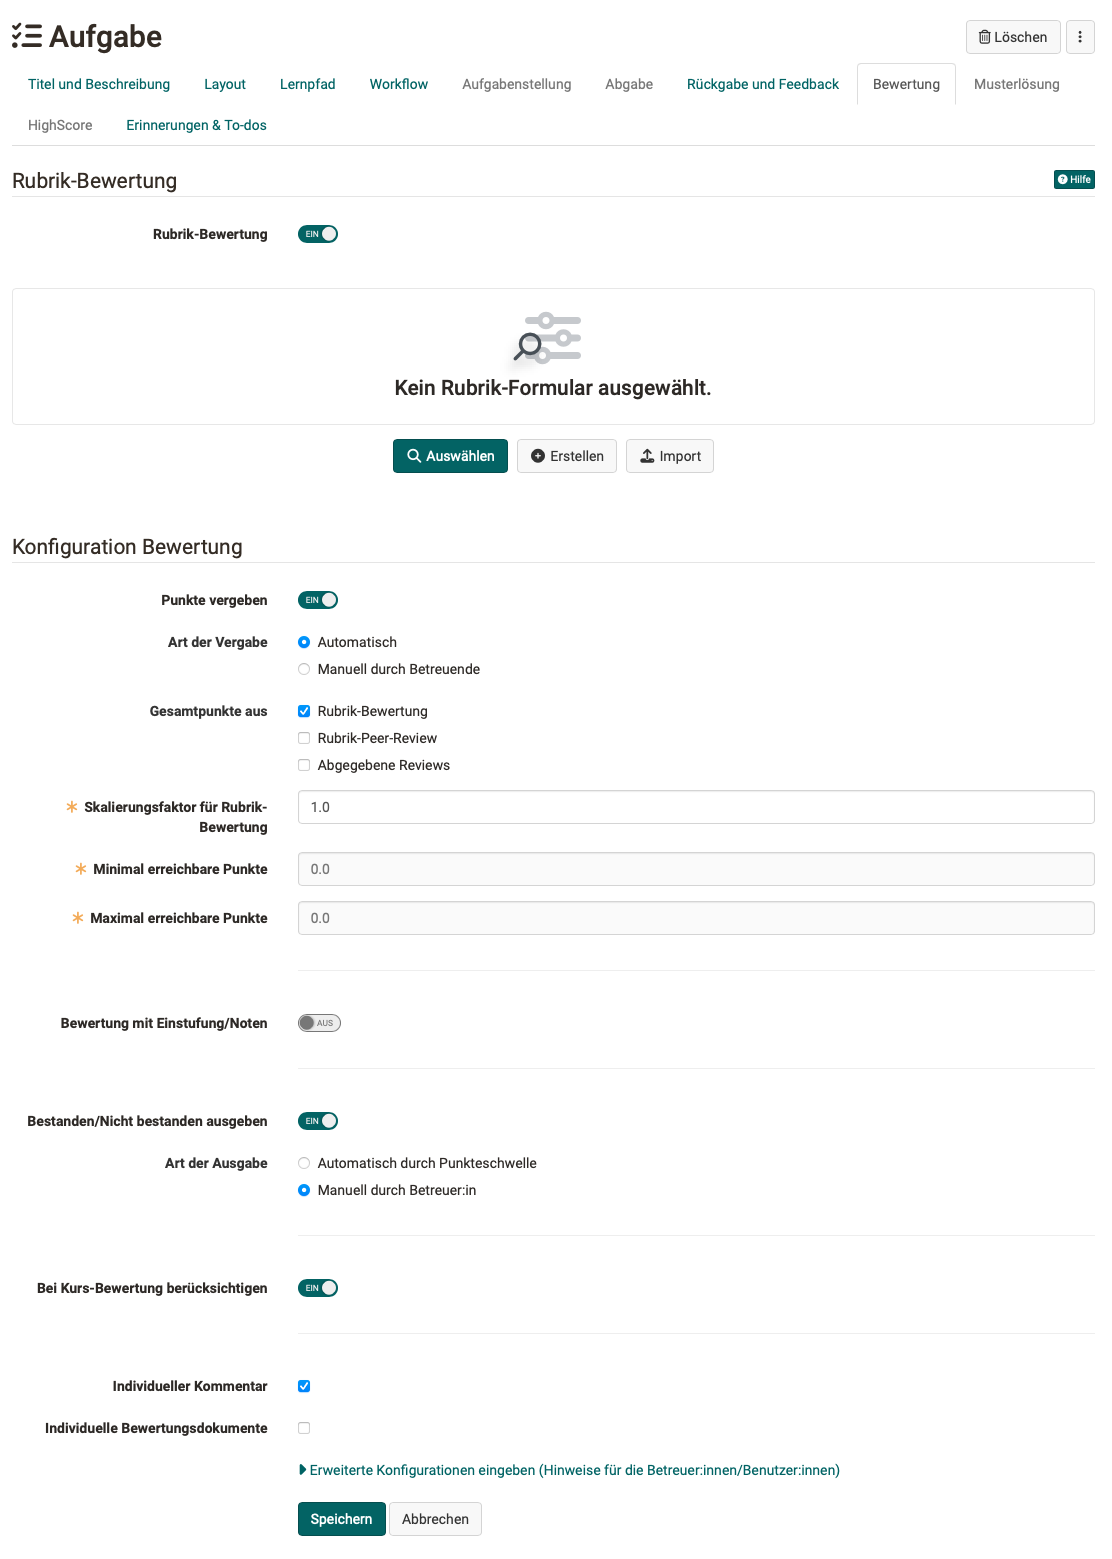
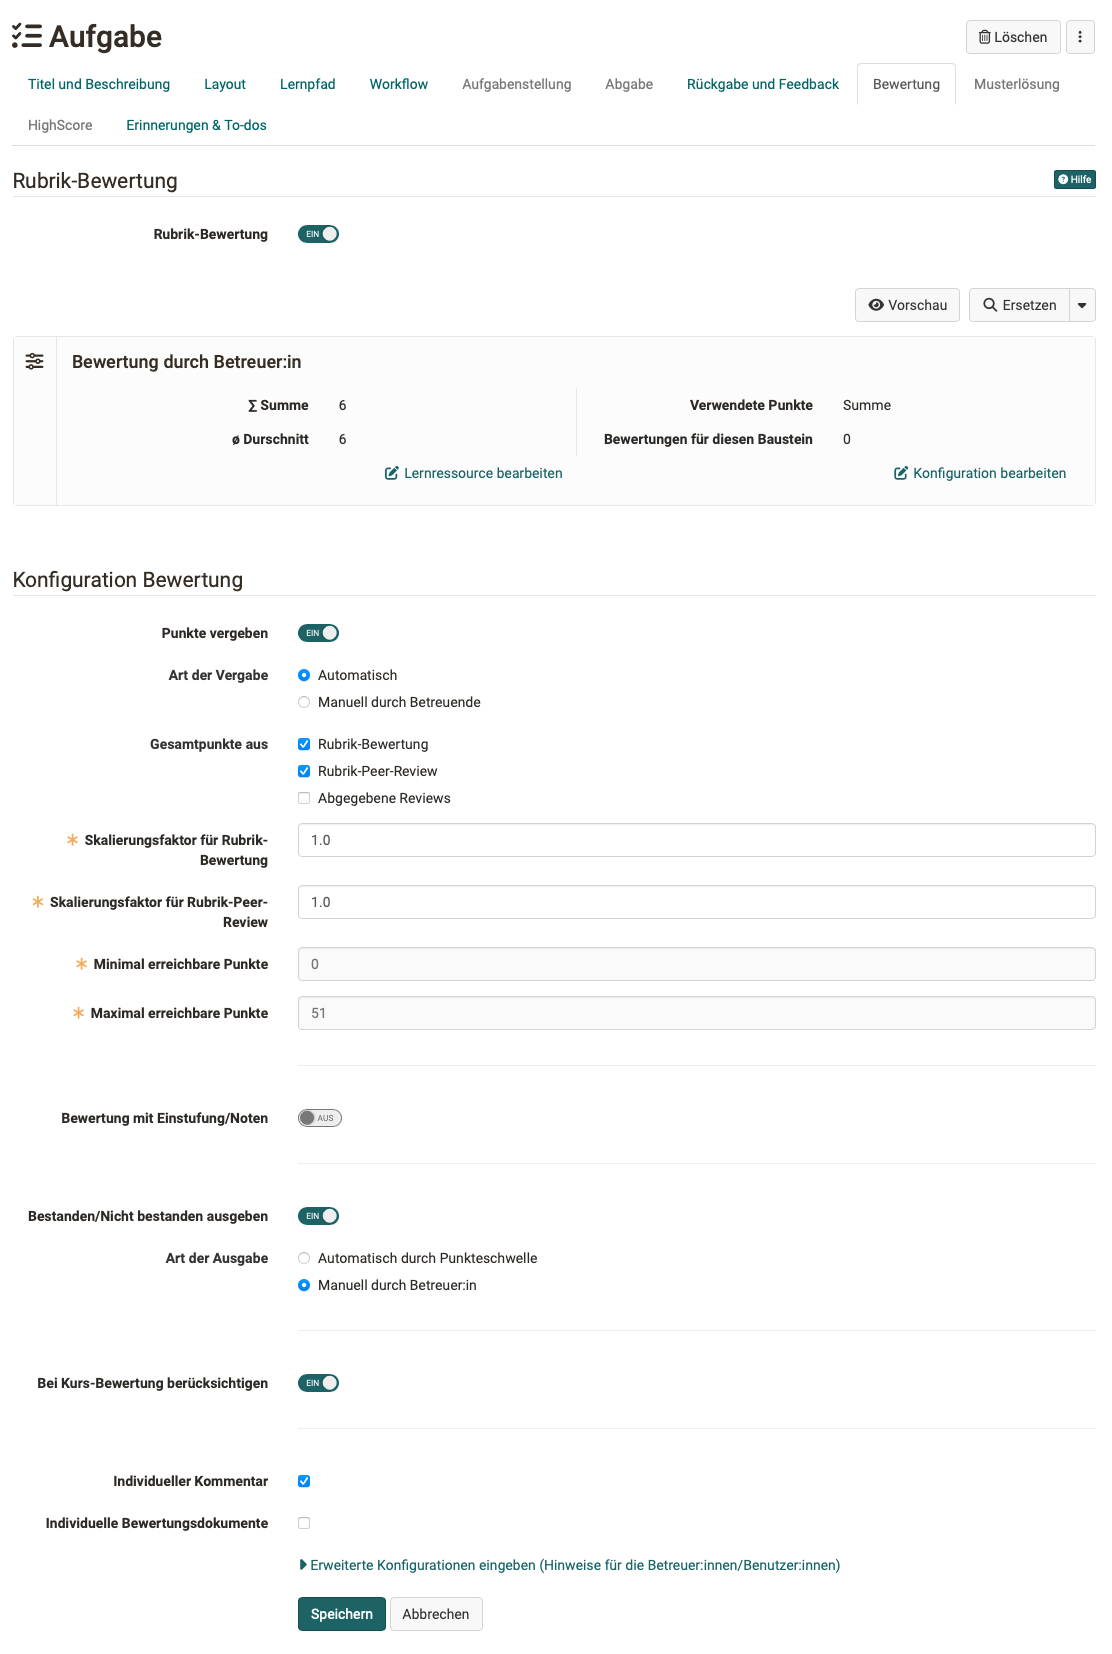
BenutzerHB: Updates zum Peer-Review

diff --git a/sites/manual_user/docs/learningresources/Course_Element_Task.de.md b/sites/manual_user/docs/learningresources/Course_Element_Task.de.md
@@ -228,11 +228,11 @@ Wurde im Tab Workflow die Option "Durch Betreuende" gewählt, können nun im Tab
 
 **Rückgabe und Feedback durch Peer-Review**
 
-Wurde im Tab Workflow die Option "Mit Peer-Review" gewählt, können nun im Tab "Rückgabe und Feedback" die Regeln für die Abgabe eines Feedbacks durch andere Teilnehmer:innen festgelegt werden. Das Feedback der Reviewer:innen wird jeweils in einem [Formular](../learningresources/Forms_in_Courses.de.md) gegeben. Als Kursbesitzer:in geben Sie dieses [Formular](../learningresources/Forms_in_Courses.de.md) vor.
-
-Auch eine Rückmeldung an die Reviewer:innen kann ermöglicht werden (Hilfreich? Ja/Nein und Sternebewertung).
+Wurde im Tab Workflow die Option "Mit Peer-Review" gewählt, können nun im Tab "Rückgabe und Feedback" die Regeln für die Abgabe eines Feedbacks durch andere Teilnehmer:innen festgelegt werden. Das Feedback der Reviewer:innen wird jeweils in einem [Formular](../learningresources/Rubric.de.md) gegeben. Als Kursbesitzer:in geben Sie dieses [Formular](../learningresources/Rubric.de.md) vor. Für ein Peer-Review muss es ein Formular sein, das mindestens 1 Rubrik-Element enthält, denn nur das Rubrik-Element gibt die darin erreichten Punkte an den Kursbaustein weiter.
 
 ![course_element_task_fb_v1_de.png](assets/course_element_task_fb_v1_de.png){ class="shadow lightbox" }
+
+Auch eine Rückmeldung an die Reviewer:innen kann ermöglicht werden (Hilfreich? Ja/Nein und Sternebewertung).
 
 Damit neben Kursbesitzer:innen auch Betreuer:innen die automatische Reviewer-Zuweisung auslösen können, muss die entsprechende Option im Tab "Rückgabe und Feedback", Abschnitt "Berechtigungen" gewählt werden.
 
@@ -246,14 +246,23 @@ Damit neben Kursbesitzer:innen auch Betreuer:innen die automatische Reviewer-Zuw
 
 Hier definieren Sie _wie_ die Lernenden bewertet werden sollen. Soll es Punkte geben? Soll es ein bestanden/nicht bestanden für den Kursbaustein geben? Soll die Punktebewertung mit einer Bewertungsskala verbunden werden? Wenn ja, mit welcher? Sollen weitere individuelle Kommentare oder Dokumente bereitgestellt werden können? Entscheiden Sie jeweils was für Ihr Szenario passend ist.
 
-Für die Bewertung kann auch ein Formular mit Rubrik verwendet werden. Die Punkte können dann aus dem Rubrik-Formular für die Bewertung des Kursbausteins übernommen werden
+Für die Bewertung kann auch ein Formular mit Rubrik verwendet werden. Die Punkte können dann aus dem Rubrik-Formular für die Bewertung des Kursbausteins übernommen werden. <br>Das hier im Tab "Bewertung" eingebundene Rubrik-Formular ist zu unterscheiden von dem Rubrik-Formular, das im Tab "Rückgabe und Feedback" für Peer-Reviews verwendet wird.
 
 ![course_element_task_tab_grading_rubrik_v1_de.png](assets/course_element_task_tab_grading_rubrik_v1_de.png){ class="shadow lightbox" }
 
 
 #### Punkte vergeben  
 
-Wenn die Punktevergabe aktiviert wurde müssen die minimale und die maximale Punktzahl angegeben werden. Zusätzlich können Sie dann auch die Option "Bewertung mit Einstufung/Noten" wählen und weiter konfigurieren. So können den jeweiligen Punkten bestimmte Bewertungsskalen wie Level, Noten, (Kompetenz-)Stufen oder Label zugeordnet werden. Die zur Verfügung stehenden Bewertungsskalen werden vom OpenOlat Administrator definiert und können über den Button "Bewertungsskala bearbeiten" ausgewählt sowie die Punkte im Detail angepasst werden. Ferner muss definiert werden ob die Zuordnung zur berechneten Einstufung manuell durch den Betreuer erfolgt oder automatisch bei Punktänderung angezeigt werden soll.
+Wenn die Punktevergabe aktiviert wurde, müssen die minimale und die maximale Punktzahl angegeben werden. Zusätzlich können Sie dann auch die Option "Bewertung mit Einstufung/Noten" wählen und weiter konfigurieren. So können den jeweiligen Punkten bestimmte Bewertungsskalen wie Level, Noten, (Kompetenz-)Stufen oder Label zugeordnet werden. Die zur Verfügung stehenden Bewertungsskalen werden vom OpenOlat Administrator definiert und können über den Button "Bewertungsskala bearbeiten" ausgewählt sowie die Punkte im Detail angepasst werden. Ferner muss definiert werden ob die Zuordnung zur berechneten Einstufung manuell durch den Betreuer erfolgt oder automatisch bei Punktänderung angezeigt werden soll.
+
+#### Gesamtpunkte aus ...
+
+Die Gesamtpunktzahl kann aus einer oder mehreren Quellen errechnet werden:
+
+* **Rubrik-Bewertung**: Wird im Tab "Bewertung" ein Rubrik-Formular verwendet, können von dort Punkte übernommen werden.
+* **Rubrik-Peer-Review**: Ein Peer-Review verwendet das Rubrik-Formular, das im Tab "Rückgabe und Feedback" eingebunden wird.
+* **Abgegebene Reviews**: Für das Reviewen von anderen Teilnehmer:innen können der Person zusätzliche Punkte angerechnet werden (Punkte pro erledigtem Review, konfiguriert unterhalb dieser Auswahl, sobald die Option markiert wurde).  
+
 
 #### Bestanden/Nicht bestanden
 Sofern aktiviert kann das Bestehen entweder manuell durch den Betreuer oder automatisch erfolgen. Für die automatische Bewertung müssen die Punktevergabe aktiviert und eine Punktschwelle für das Bestehen angegeben werden.

diff --git a/sites/manual_user/docs/learningresources/Forms_in_Courses.de.md b/sites/manual_user/docs/learningresources/Forms_in_Courses.de.md
@@ -7,6 +7,7 @@ Hierzu zählen:
 * [Kursbaustein Umfrage](../learningresources/Course_Element_Survey.de.md)
 * [Kursbaustein Formular](../learningresources/Course_Element_Form.de.md)
 * [Kursbaustein Bewertung](../learningresources/Course_Element_Assessment.de.md)
+* [Kursbaustein Aufgabe](../learningresources/Course_Element_Task.de.md)
 * Teil der [Portfolio 2.0 Vorlage](Portfolio_template_Creation.de.md) über den Kursbaustein Portfolioaufgabe
 
 Grundsätzlich können Formulare auch direkt im Kurs über den jeweiligen Kursbaustein erstellt werden.

diff --git a/sites/manual_user/docs/learningresources/Forms_in_Courses.md b/sites/manual_user/docs/learningresources/Forms_in_Courses.md
@@ -7,6 +7,7 @@ These include:
 * [Course element Survey](../learningresources/Course_Element_Survey.md)
 * [Course element Form](../learningresources/Course_Element_Form.md)
 * [Course element Assessment](../learningresources/Course_Element_Assessment.md)
+* [Course element Task](../learningresources/Course_Element_Task.md)
 * Part of the [Portfolio 2.0 Template](Portfolio_template_Creation.md) about the course element Portfolio task
 
 In general, forms can also be created directly in the course via the respective course element.

diff --git a/sites/manual_user/docs/learningresources/Rubric.de.md b/sites/manual_user/docs/learningresources/Rubric.de.md
@@ -42,7 +42,7 @@ In OpenOlat können Rubriks z.B. eingesetzt werden um
 
 <br>
 
-* in einem Peer-Review die anderen Teilnehmer:innen zu bewerten
+* in einem Peer-Review die anderen Teilnehmer:innen zu bewerten und/oder eine Bewertung durch Betreuer:innen vorzunehmen
 
   ![Rubrik Peer-Review](assets/Rubrik_Peer-Review.png){ class="shadow lightbox" }
 

diff --git a/sites/manual_user/docs/learningresources/Rubric.md b/sites/manual_user/docs/learningresources/Rubric.md
@@ -44,7 +44,7 @@ The scope of rubrics is wide. In OpenOlat, rubrics can be used, for example,
 
 <br>
 
-* to assess other participants in a peer review
+* to assess other participants in a peer review and/or to carry out an assessment by coaches.
 
   ![Rubrik Peer-Review](assets/Rubrik_Peer-Review.png){ class="shadow lightbox" }
 
